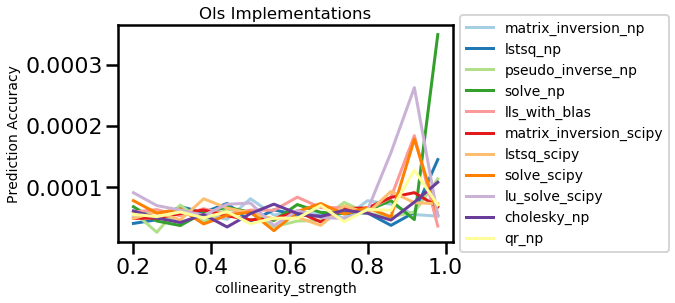
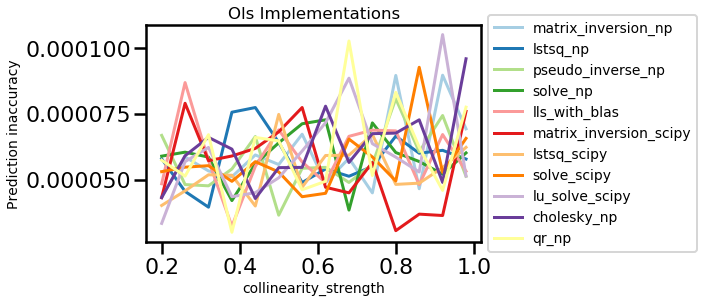
debigging and cleaning code.

diff --git a/code/ols.py b/code/ols.py
@@ -254,12 +254,12 @@ for dim in dim_list:
                 x=x_name, y=funcname, data=rmse_plot_data,
                 label=funcname, ax=ax)
         ax.set_xlabel(x_name, fontsize='xx-small')
-        ax.set_ylabel('Prediction Accuracy', fontsize='xx-small')
+        ax.set_ylabel('Prediction inaccuracy', fontsize='xx-small')
         plt.title('Ols Implementations', fontsize='x-small')
         plt.legend(loc='center left', bbox_to_anchor=(1, 0.5), frameon=True, fontsize = 'xx-small')
         plt.savefig("Accuracy_ols.png".format(x_name), bbox_inches='tight')
-        plt.show()
-        plt.close()
+#       plt.show()
+#        plt.close()
     else:
         plot_data = batch_benchmark(func_list=func_list, data_dimensions=dim)
         function_names = plot_data.columns
@@ -278,11 +278,11 @@ for dim in dim_list:
             sns.lineplot(
                 x=x_name, y=funcname, data=reduced_data,
                 label=funcname, ax=ax)
-        ax.set_xlabel(x_name, fontsize='xx-small')
-        ax.set_ylabel('Time taken', fontsize='xx-small')
-        plt.title('Ols Implementations', fontsize='x-small')
-        plt.legend(loc='center left', bbox_to_anchor=(1, 0.5), frameon=True, fontsize = 'xx-small')
-        plt.savefig("Perfomance_ols_{}.png".format(x_name), bbox_inches='tight')
-        plt.show()
-        plt.close()
+    ax.set_xlabel(x_name, fontsize='xx-small')
+    ax.set_ylabel('Time taken', fontsize='xx-small')
+    plt.title('Ols Implementations', fontsize='x-small')
+    plt.legend(loc='center left', bbox_to_anchor=(1, 0.5), frameon=True, fontsize = 'xx-small')
+    plt.savefig("Perfomance_ols_{}.png".format(x_name), bbox_inches='tight')
+    plt.show()
+    plt.close()
 
